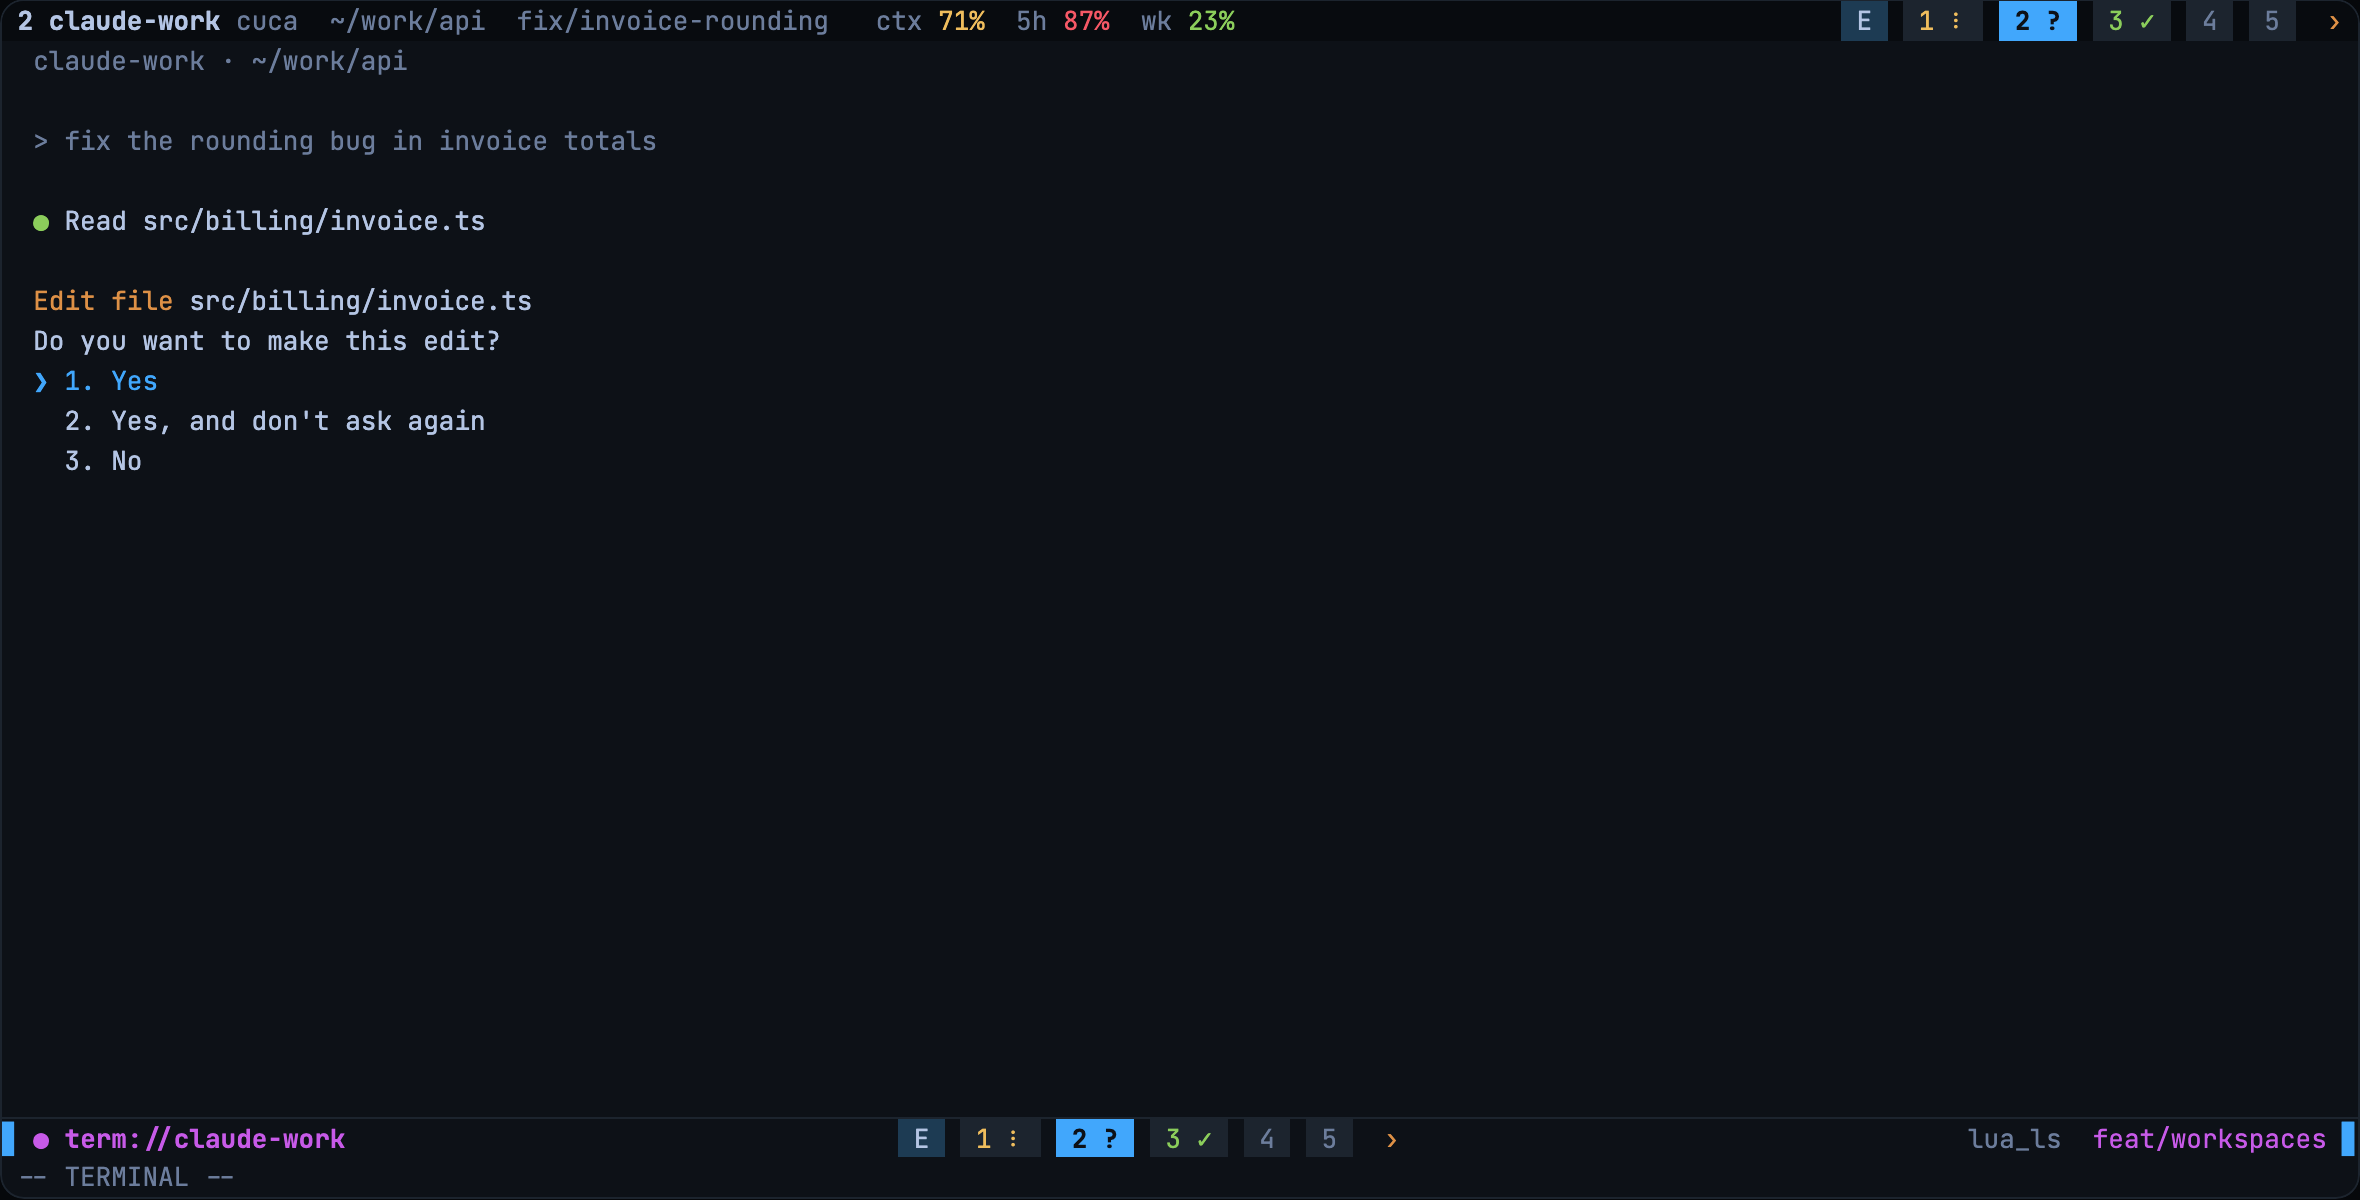
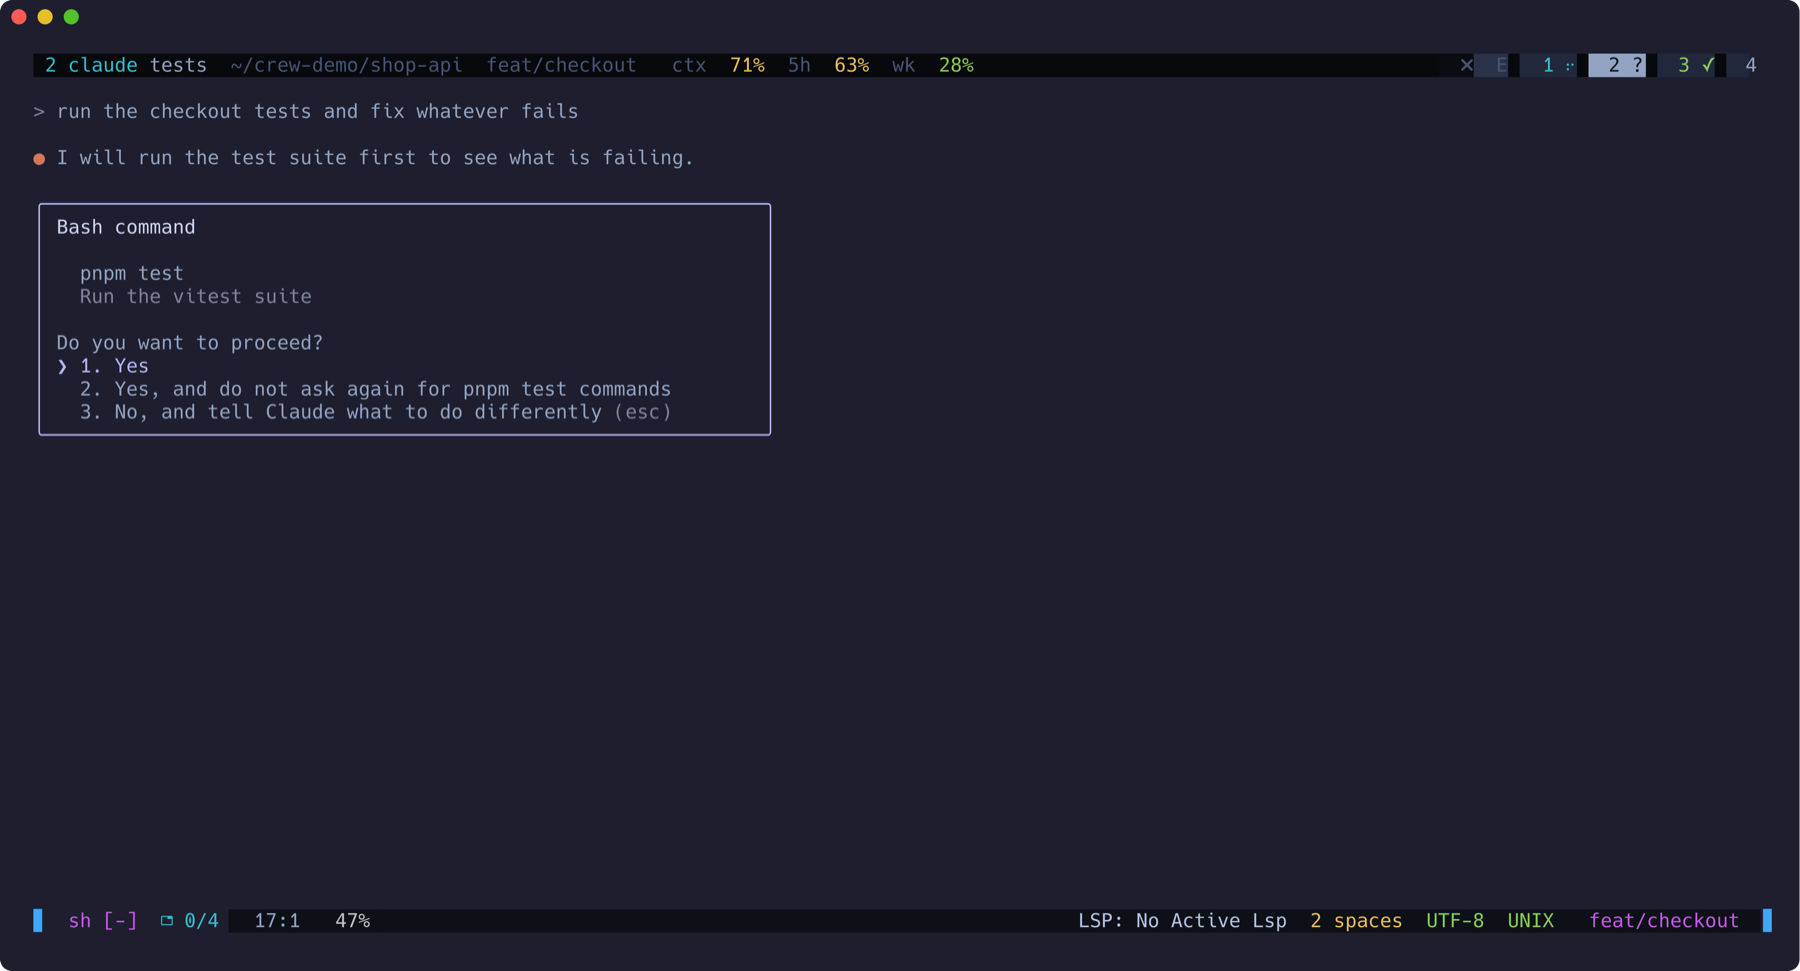
docs: fresh screenshots
## Changes
- Editor, agent and instance picker shots match the current pills, header, spinner and meters
- New sessions picker shot with Claude and agy sessions
- Rendered from a demo project with simulated agents, no real data

diff --git a/README.md b/README.md
@@ -135,6 +135,8 @@ Names are optional labels you set with `<leader>ai`. They appear in the picker a
 
 `<leader>aN` lists the earlier sessions of the current directory, newest first, with their last activity, branch, title and last prompt. When several profiles can list sessions, they share one picker with a profile column where Enter resumes each session with the profile that owns it. `:Crew resume claude` keeps to a single profile.
 
+![The sessions picker with Claude and agy sessions](docs/images/sessions.png)
+
 Sessions already open are left out, because a second process on the same conversation would end it for the first one when it closes. crew reads these rows from each CLI's own files, which are undocumented, so a field the CLI stops writing shows as an empty cell while the session stays in the list.
 
 ## Agent state
